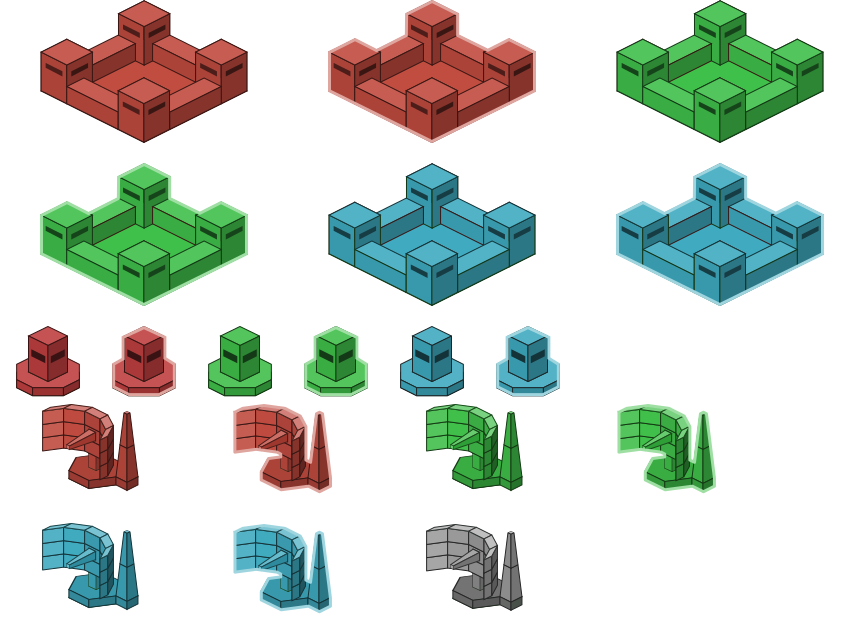
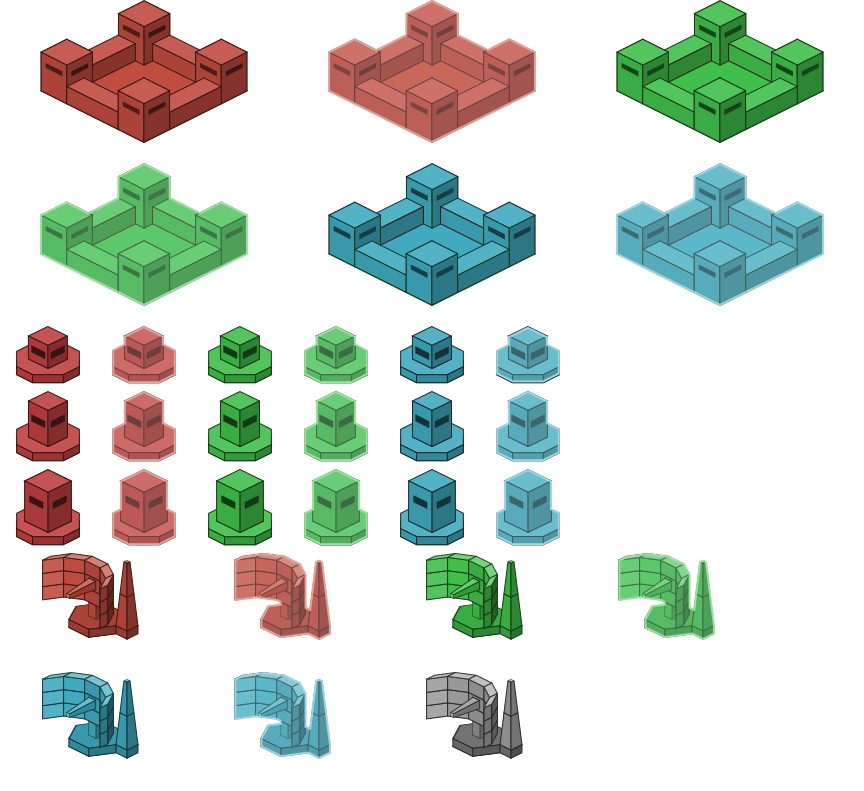
New sprites for towers and selected elements

diff --git a/src/Screens/ScreenGame.cpp b/src/Screens/ScreenGame.cpp
@@ -451,21 +451,35 @@ void ScreenGame::InitSprites()
         { 576, 163, 288, 163 },
 
         // def tower lvl 1
-        { 0, 326, 96, 78 },
-        { 96, 326, 96, 78 },
-        { 192, 326, 96, 78 },
-        { 288, 326, 96, 78 },
-        { 384, 326, 96, 78 },
-        { 480, 326, 96, 78 },
+        { 0, 326, 96, 65 },
+        { 96, 326, 96, 65 },
+        { 192, 326, 96, 65 },
+        { 288, 326, 96, 65 },
+        { 384, 326, 96, 65 },
+        { 480, 326, 96, 65 },
+        // def tower lvl 2
+        { 0, 391, 96, 78 },
+        { 96, 391, 96, 78 },
+        { 192, 391, 96, 78 },
+        { 288, 391, 96, 78 },
+        { 384, 391, 96, 78 },
+        { 480, 391, 96, 78 },
+        // def tower lvl 3
+        { 0, 469, 96, 84 },
+        { 96, 469, 96, 84 },
+        { 192, 469, 96, 84 },
+        { 288, 469, 96, 84 },
+        { 384, 469, 96, 84 },
+        { 480, 469, 96, 84 },
 
         // radar
-        { 0, 404, 192, 119 },
-        { 192, 404, 192, 119 },
-        { 384, 404, 192, 119 },
-        { 576, 404, 192, 119 },
-        { 0, 523, 192, 119 },
-        { 192, 523, 192, 119 },
-        { 384, 523, 192, 119 }
+        { 0, 553, 192, 119 },
+        { 192, 553, 192, 119 },
+        { 384, 553, 192, 119 },
+        { 576, 553, 192, 119 },
+        { 0, 672, 192, 119 },
+        { 192, 672, 192, 119 },
+        { 384, 672, 192, 119 }
     };
 
     tm->RegisterSprite(SpriteFileStructures, rectsStructures);
@@ -473,29 +487,29 @@ void ScreenGame::InitSprites()
     // UNITS
     const std::vector<lib::core::Rectd> rectsUnits
     {
-        // row 0
+        // unit 1
         { 0, 0, 96, 54 },
         { 96, 0, 96, 54 },
-        { 192, 0, 96, 58 },
-        { 288, 0, 96, 58 },
+        { 192, 0, 96, 54 },
+        { 288, 0, 96, 54 },
         { 384, 0, 96, 54 },
         { 480, 0, 96, 54 },
 
-        // row 1
-        { 0, 58, 96, 54 },
-        { 96, 58, 96, 54 },
-        { 192, 58, 96, 58 },
-        { 288, 58, 96, 58 },
-        { 384, 58, 96, 54 },
-        { 480, 58, 96, 54 },
+        // unit 2
+        { 0, 54, 96, 58 },
+        { 96, 54, 96, 58 },
+        { 192, 54, 96, 58 },
+        { 288, 54, 96, 58 },
+        { 384, 54, 96, 58 },
+        { 480, 54, 96, 58 },
 
-        // row 2
-        { 0, 116, 96, 54 },
-        { 96, 116, 96, 54 },
-        { 192, 116, 96, 58 },
-        { 288, 116, 96, 58 },
-        { 384, 116, 96, 54 },
-        { 480, 116, 96, 54 }
+        // unit 3
+        { 0, 112, 96, 54 },
+        { 96, 112, 96, 54 },
+        { 192, 112, 96, 54 },
+        { 288, 112, 96, 54 },
+        { 384, 112, 96, 54 },
+        { 480, 112, 96, 54 }
     };
 
     tm->RegisterSprite(SpriteFileUnits, rectsUnits);

diff --git a/src/GameData.h b/src/GameData.h
@@ -157,6 +157,18 @@ enum SpriteIdStructures : unsigned int
     ID_STRUCT_DTOWER_L1_F2_SEL,
     ID_STRUCT_DTOWER_L1_F3,
     ID_STRUCT_DTOWER_L1_F3_SEL,
+    ID_STRUCT_DTOWER_L2_F1,
+    ID_STRUCT_DTOWER_L2_F1_SEL,
+    ID_STRUCT_DTOWER_L2_F2,
+    ID_STRUCT_DTOWER_L2_F2_SEL,
+    ID_STRUCT_DTOWER_L2_F3,
+    ID_STRUCT_DTOWER_L2_F3_SEL,
+    ID_STRUCT_DTOWER_L3_F1,
+    ID_STRUCT_DTOWER_L3_F1_SEL,
+    ID_STRUCT_DTOWER_L3_F2,
+    ID_STRUCT_DTOWER_L3_F2_SEL,
+    ID_STRUCT_DTOWER_L3_F3,
+    ID_STRUCT_DTOWER_L3_F3_SEL,
     // RADAR
     ID_STRUCT_RADAR_F1,
     ID_STRUCT_RADAR_F1_SEL,
@@ -169,6 +181,7 @@ enum SpriteIdStructures : unsigned int
     // special values
     NUM_BASE_SPRITES_PER_FAC = 2,
     NUM_DTOWER_SPRITES_PER_FAC = 2,
+    NUM_DTOWER_SPRITES_PER_LVL = 6,
     NUM_RADAR_SPRITES_PER_FAC = 2
 };
 
@@ -177,34 +190,34 @@ extern const char SpriteFileUnits[];
 
 enum SpriteIdUnits : unsigned int
 {
-    // faction 1
+    // unit 1
     SPR_UNIT_01_F1,
     SPR_UNIT_01_F1_SEL,
-    SPR_UNIT_02_F1,
-    SPR_UNIT_02_F1_SEL,
-    SPR_UNIT_03_F1,
-    SPR_UNIT_03_F1_SEL,
-
-    // faction 2
     SPR_UNIT_01_F2,
     SPR_UNIT_01_F2_SEL,
-    SPR_UNIT_02_F2,
-    SPR_UNIT_02_F2_SEL,
-    SPR_UNIT_03_F2,
-    SPR_UNIT_03_F2_SEL,
-
-    // faction 3
     SPR_UNIT_01_F3,
     SPR_UNIT_01_F3_SEL,
+
+    // unit 2
+    SPR_UNIT_02_F1,
+    SPR_UNIT_02_F1_SEL,
+    SPR_UNIT_02_F2,
+    SPR_UNIT_02_F2_SEL,
     SPR_UNIT_02_F3,
     SPR_UNIT_02_F3_SEL,
+
+    // unit 3
+    SPR_UNIT_03_F1,
+    SPR_UNIT_03_F1_SEL,
+    SPR_UNIT_03_F2,
+    SPR_UNIT_03_F2_SEL,
     SPR_UNIT_03_F3,
     SPR_UNIT_03_F3_SEL,
 
-    // difference between last and first IDs of faction 1
-    NUM_UNIT_SPRITES_PER_FACTION = SPR_UNIT_03_F1_SEL - SPR_UNIT_01_F1 + 1,
     // 2 sprites per unit: unselected and selected
-    NUM_UNIT_SPRITES_PER_TYPE = 2
+    NUM_UNIT_SPRITES_PER_FACTION = 2,
+    // 6 sprites per type 2 * 3 factions
+    NUM_UNIT_SPRITES_PER_TYPE = 6
 };
 
 // UNITS PARTICLES
